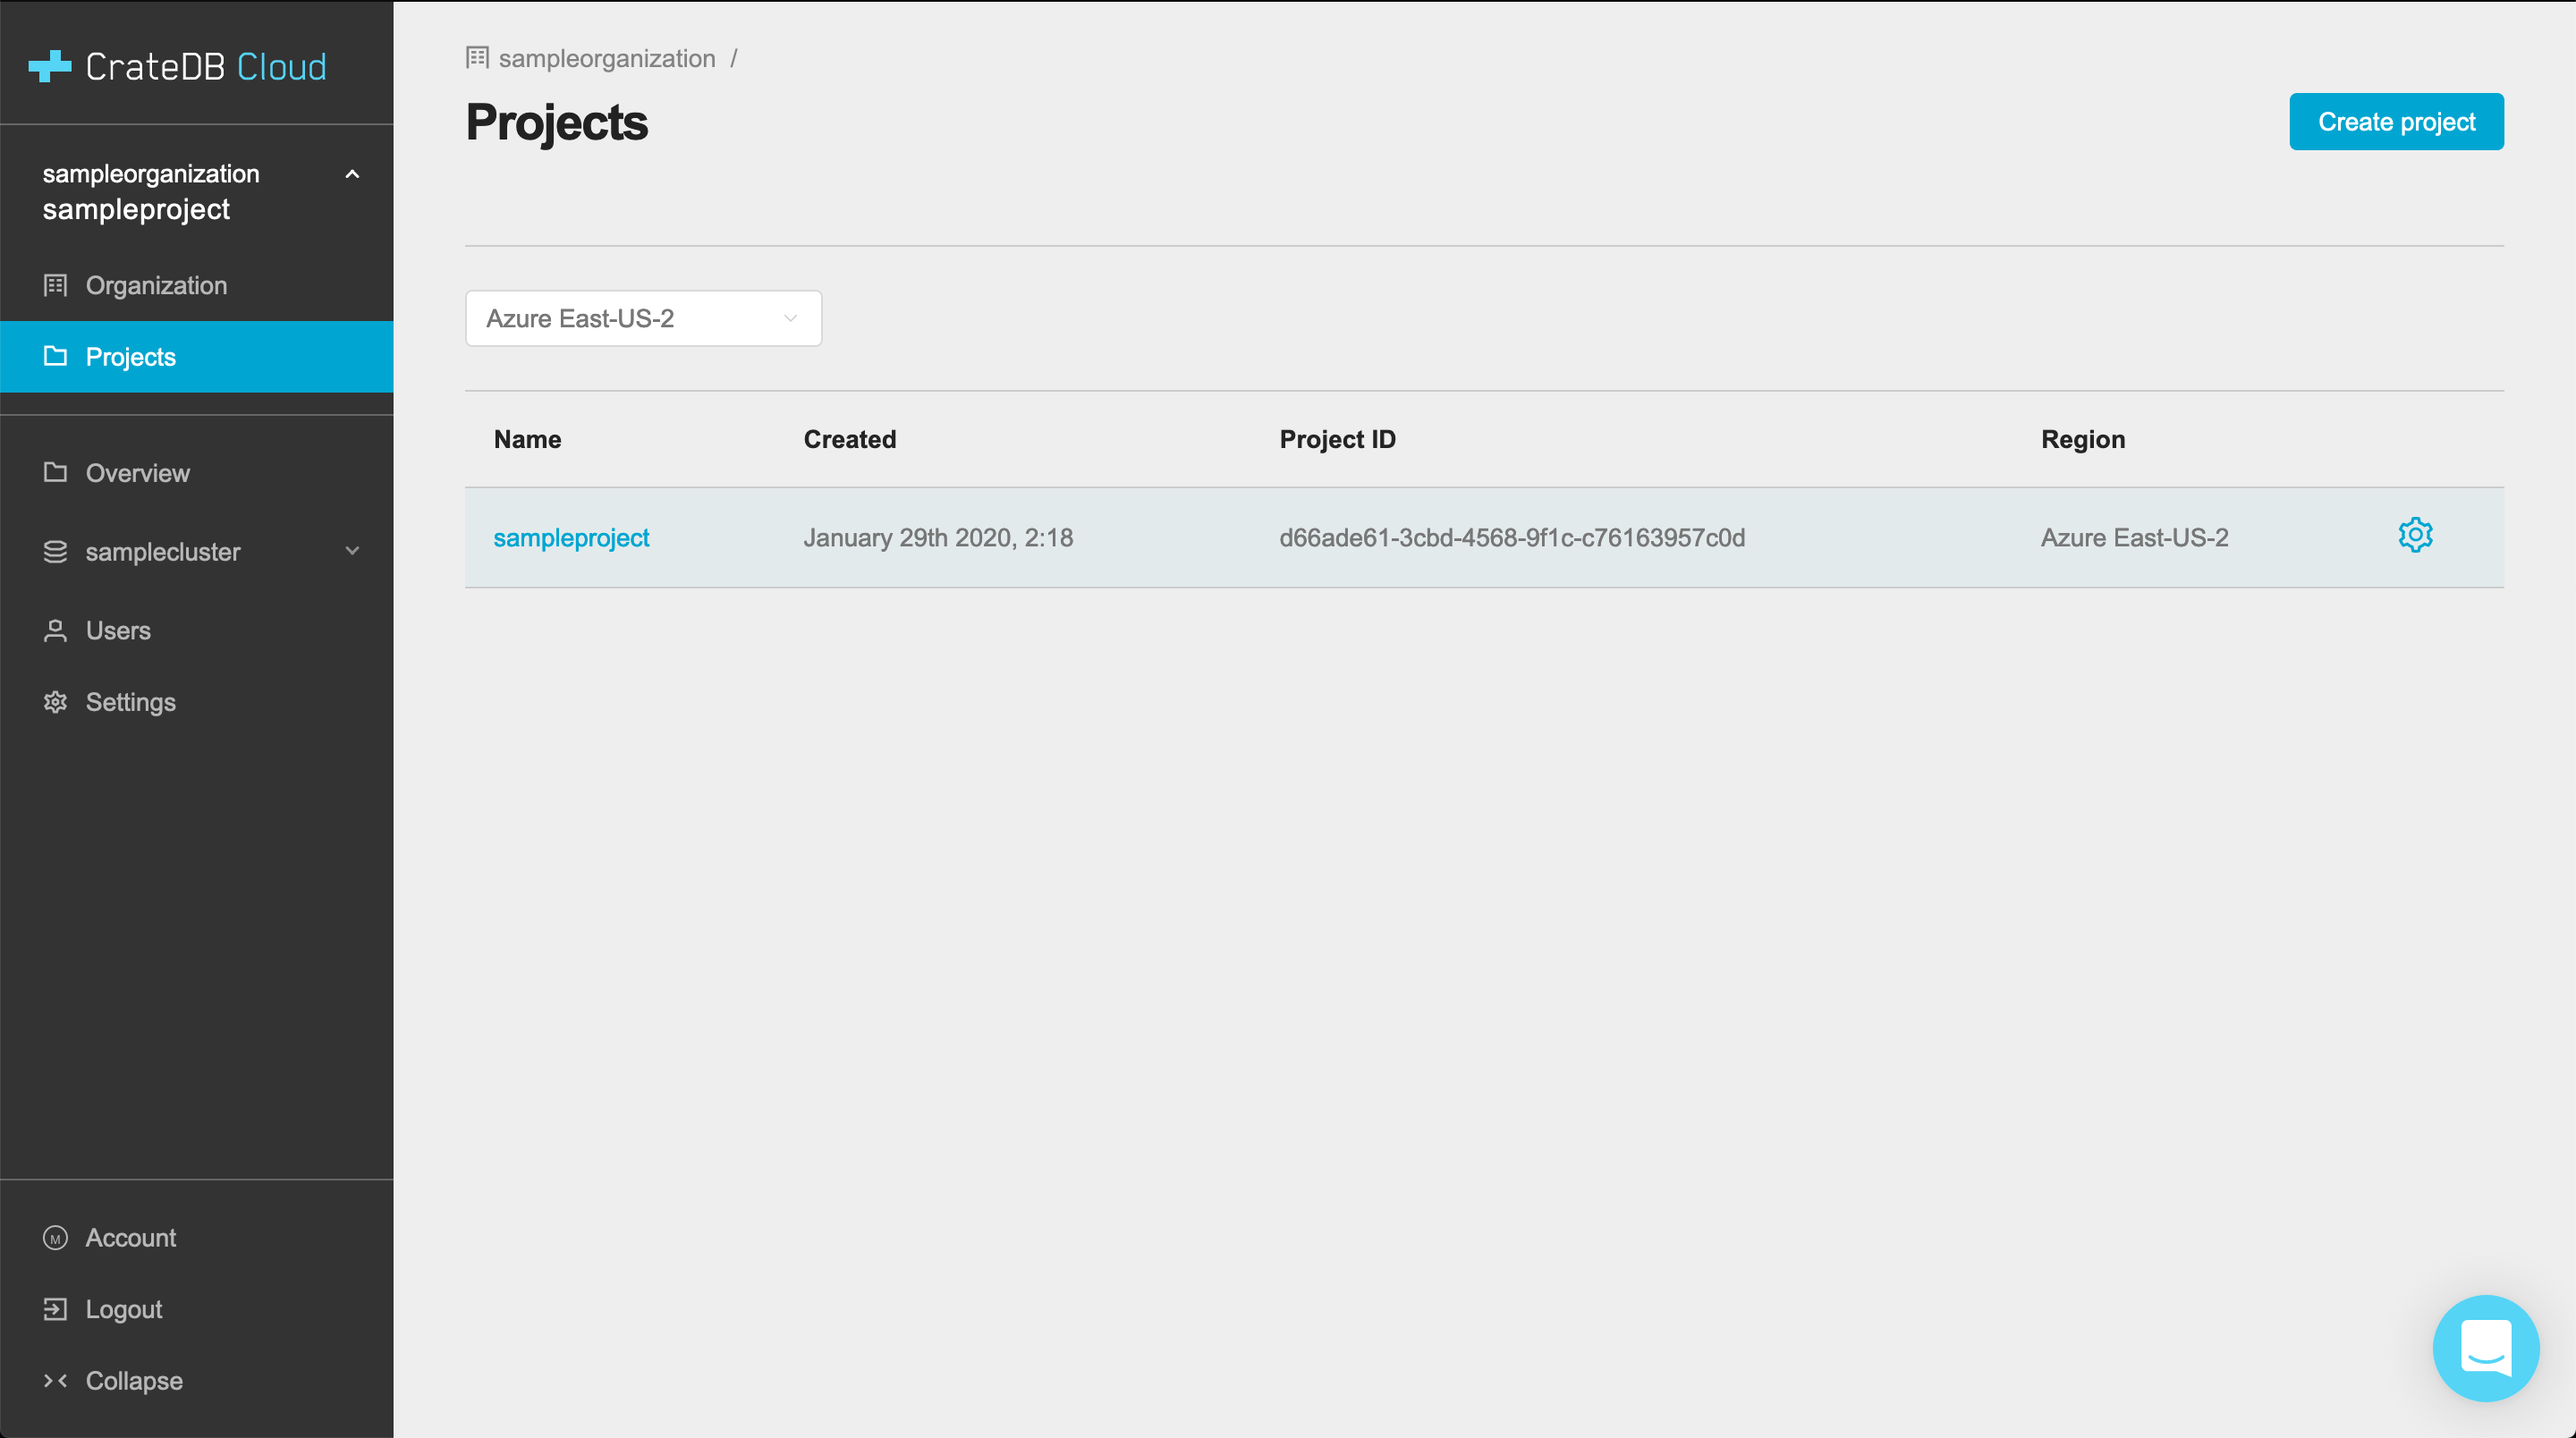
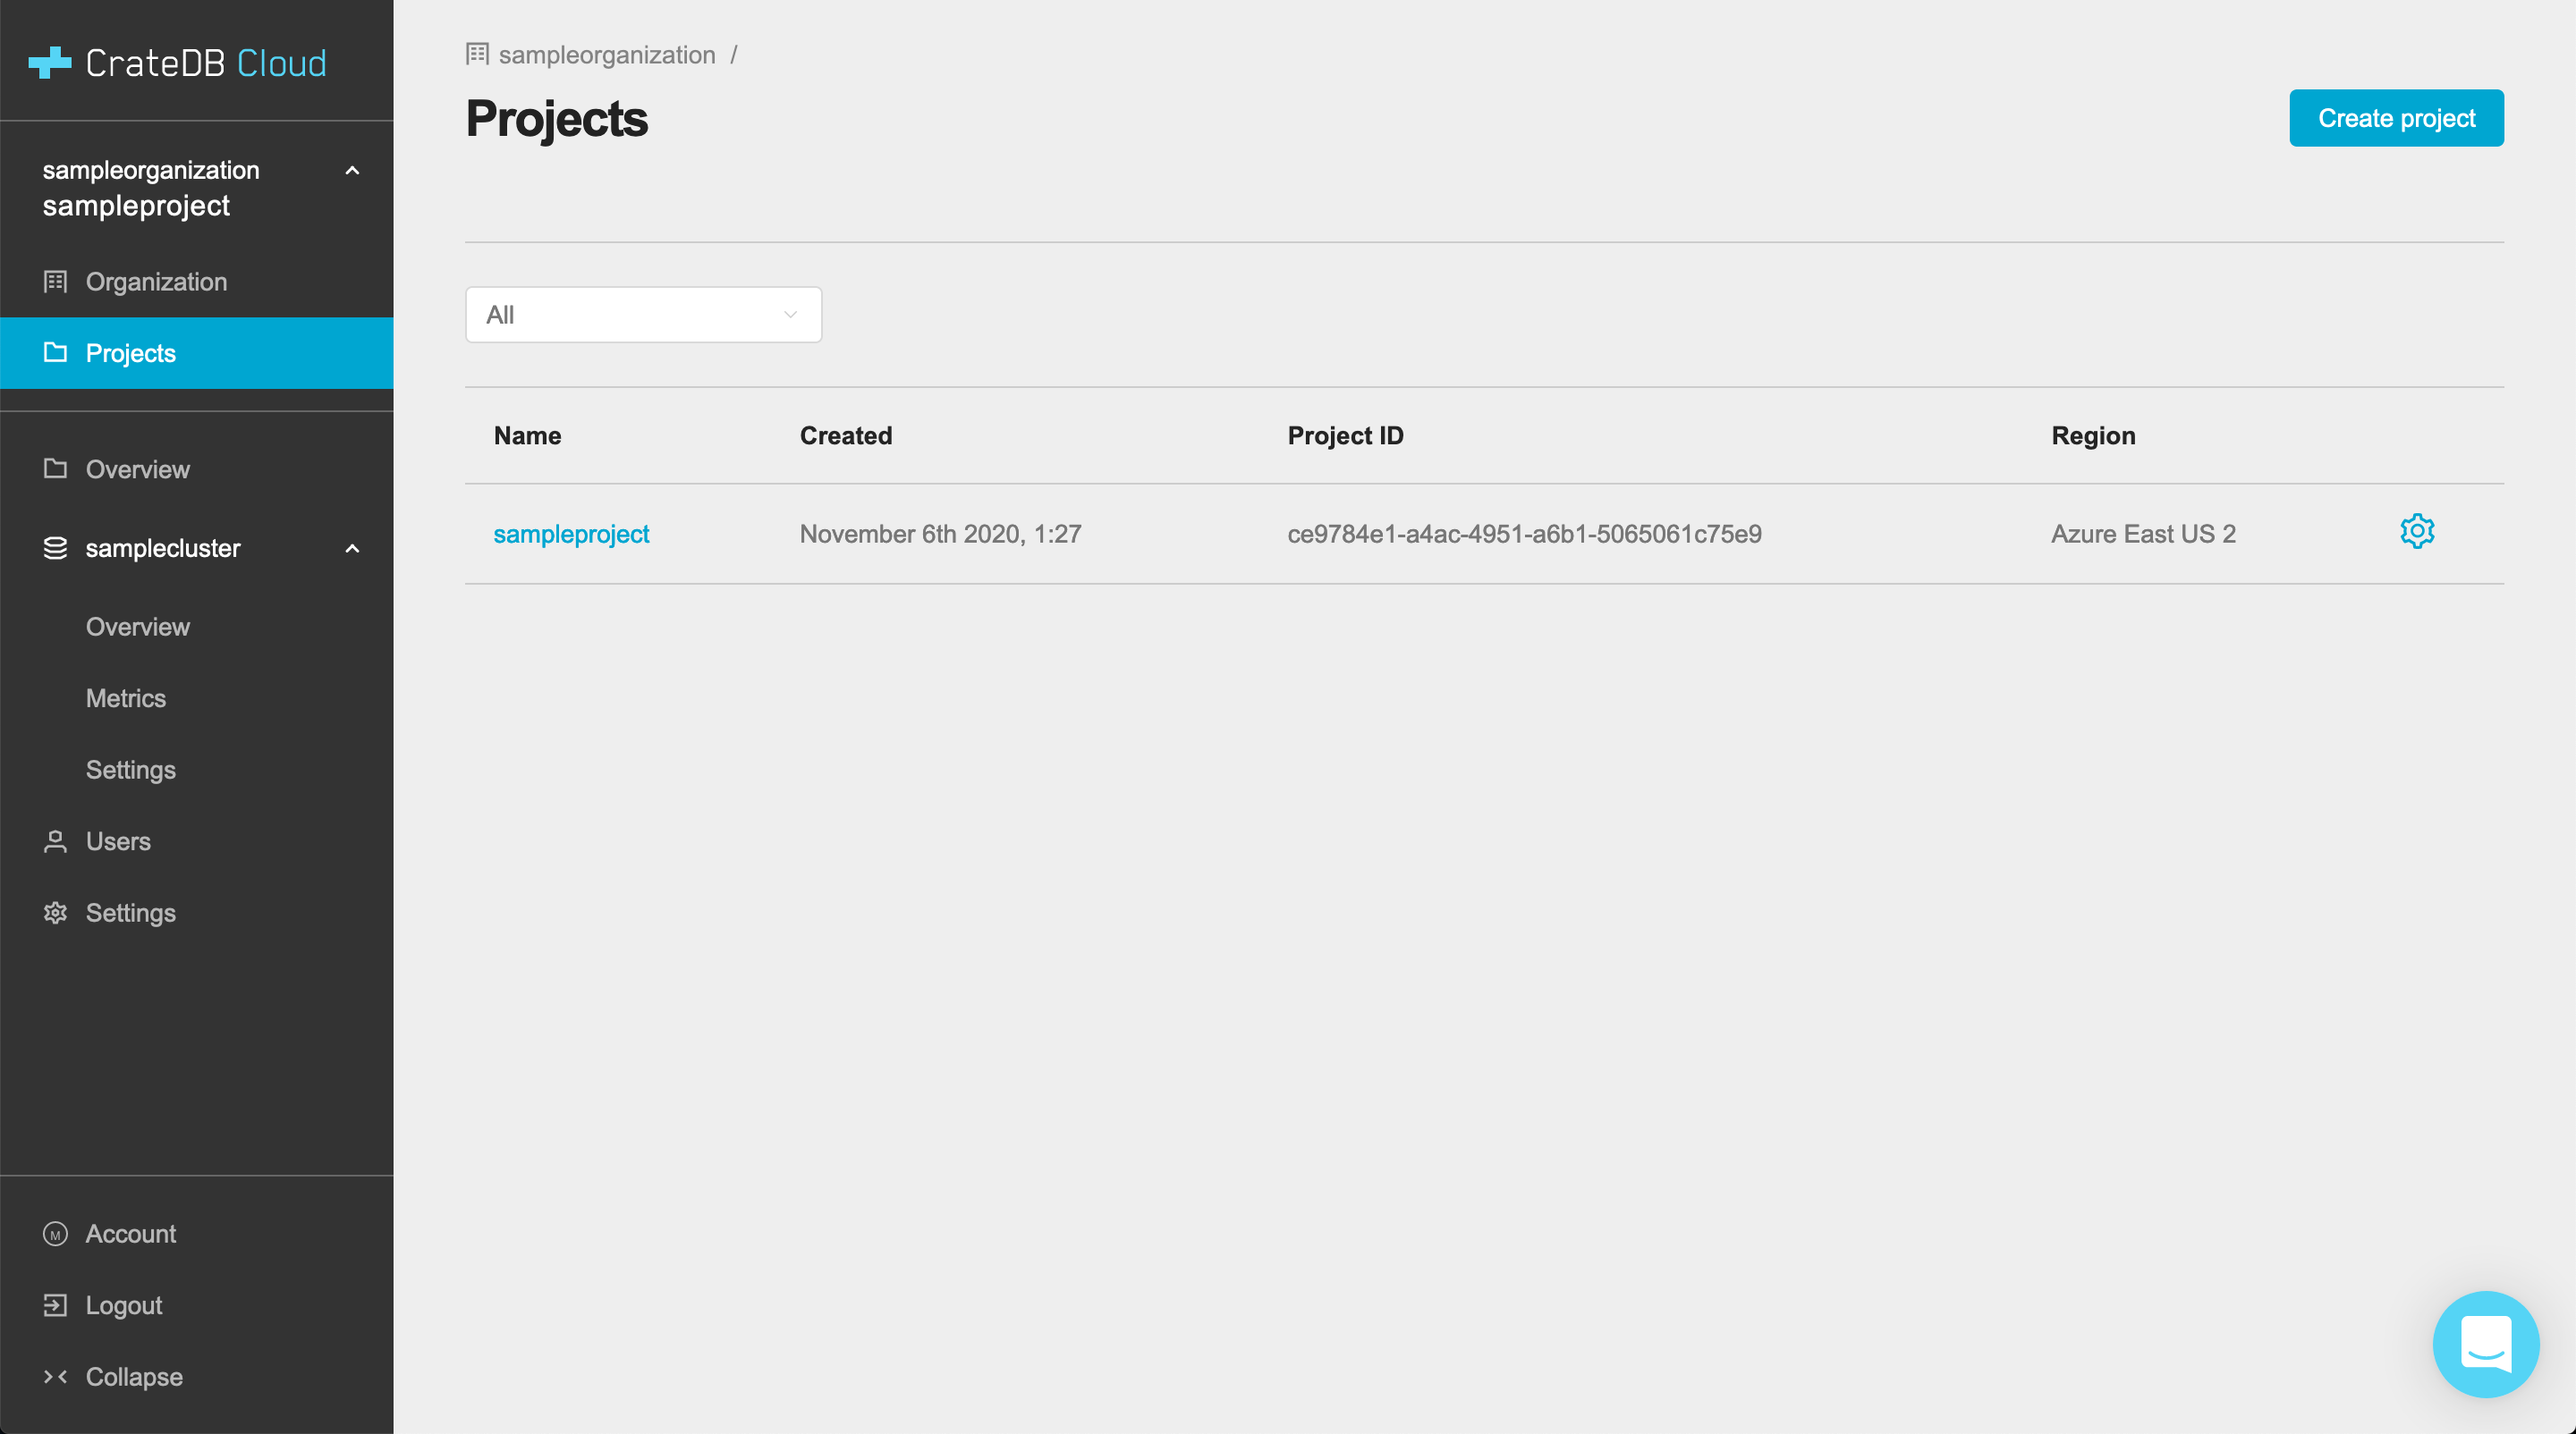
Refresh: Update to Cloud Howtos

diff --git a/docs/delete-cluster.rst b/docs/delete-cluster.rst
@@ -58,7 +58,8 @@ should be just one.)
 .. image:: _assets/img/projects.png
 
 Select the relevant project by clicking on it. Make sure the correct region is
-displayed in the regions dropdown menu to see the correct project.
+displayed in the regions dropdown menu to see the correct project, or select
+'All' in the dropdown menu.
 
 Next, we need to display the cluster in question. To do this, we need to access
 the Cluster Settings page in the left-hand sidebar, below the divider line. The
@@ -87,16 +88,18 @@ using the Azure Marketplace, you will already be familiar with it.
 
 To delete a cluster via the Azure Portal, first we must head to the Azure
 Portal |homepage|. Make sure you are logged in with the correct account
-while on this page. If all is well, you should be able to see an overview of
-different possible Azure services at the top of the page. If you have recently
-used a SaaS resource, you should find in this overview the item "Software as a
-Service (SaaS)". If this item is not present in the list, go to the search bar
-at the top (which says *search resources, services, and docs*) and enter "SaaS"
-there. The SaaS item should then appear in the list of results.
+while on this page.
+
+If all is well, you should be able to see a section titled *Azure Services* on
+the landing page. If you have recently used a SaaS resource, you should find in
+this overview the item "Software as a Service (SaaS)". If this item is not
+present in the list, go to the search bar at the top (which says *search
+resources, services, and docs*) and enter "SaaS" there. The SaaS item should
+then appear in the list of results.
 
 .. image:: _assets/img/azureservices.png
 
-Click on this. If you have subscribed to the CrateDB Cloud offer and have
+Click on this icon. If you have subscribed to the CrateDB Cloud offer and have
 deployed a cluster previously, the cluster name should now appear in the list
 of SaaS items.
 
@@ -130,15 +133,24 @@ To delete a cluster created in this way, you must unsubscribe from the AWS
 Marketplace offer. To do so, go to the AWS Marketplace landing page. Make sure
 you are logged in with the account with which you have subscribed to the offer.
 
-On the landing page, click the big orange button *Manage subscriptions*. This
-will take you to an overview of your AWS Marketplace subscriptions. You should
-see CrateDB Cloud there. Each subscription item has a button labelled *Manage*.
-Click this button for CrateDB Cloud.
+On the landing page, find your account name in the top right corner, and in the
+dropdown menu, select *Your Marketplace Software*.
+
+.. image:: _assets/img/aws-marketplace.png
+
+This will take you to an overview of your AWS Marketplace subscriptions. You
+should see CrateDB Cloud there. Each subscription item has a button labelled
+*Manage*. Click this button for CrateDB Cloud.
+
+.. image:: _assets/img/aws-subscriptions.png
 
 You will now see a page with the CrateDB Cloud "pay as you go" offer on it. At
-the top right corner there is a button labelled *Actions*. This generates a
-drop-down menu with various options for interacting with the offer. In this
-menu, click the option *Cancel subscription*.
+the top right corner there is a button labelled *Actions*.
+
+.. image:: _assets/img/aws-cratedbcloud.png
+
+This generates a drop-down menu with various options for interacting with the
+offer. In this menu, click the option *Cancel subscription*.
 
 A warning will appear, stating that cancelling the subscription will not
 terminate your running services. Do not worry: upon receiving a notice of

diff --git a/docs/create-org.rst b/docs/create-org.rst
@@ -28,14 +28,11 @@ the page will display an empty box logo and the message *No organization yet*.
 
 .. image:: _assets/img/create-org.png
 
-Underneath this logo, click the button *Create organization*. A tab will appear
-prompting you to name the organization. Once you have decided on a name, click
-*Create* in the bottom right corner to proceed.
-
-.. image:: _assets/img/create-org-dropdown.png
+In order to create an organization, fill out the organization name in the space
+provided, and click *Create organization*.
 
 When the organization has been created, you will be returned to the
-Organization page, where the organization will now be listed.
+Organization page, where it will now be listed.
 
 
 .. _create-org-overview:
@@ -45,13 +42,18 @@ The Organization page
 
 To access the Organization page, click *Organization* at the top left of the
 left-hand menu in the Console. Here you will see an overview of your
-organization with its name, unique ID, and the email information.
+organization, further subscription options, and any deployed clusters.
 
 .. image:: _assets/img/organization-overview.png
 
-There are also three tabs. The current tab is by default *Settings*. In the
-*Users* tab you can add users to the organization at organization level. For
-more on adding users, see our `guide to adding users to organizations and
+The current tab is by default *Subscriptions*. There are also three further
+tabs.
+
+In the *Settings* tab you see the organization name, unique ID, and
+notification settings.
+
+In the *Users* tab you can add users to the organization at organization level.
+For more on adding users, see our `guide to adding users to organizations and
 projects`_. To understand roles and role definitions, see our `guide to user
 roles in CrateDB Cloud`_.
 

diff --git a/docs/add-users.rst b/docs/add-users.rst
@@ -30,9 +30,9 @@ Add users to an organization
 
 New users can be added to an organization by going to the Organization page in
 the Console if you are logged in as organization admin. (For more information
-on user roles and associated privileges, see our documentation on
-`user roles`_.) At the top, you will see three tabs labelled *Settings*,
-*Users*, and *Audit Log*.
+on user roles and associated privileges, see our documentation on `user
+roles`_.) At the top, you will see four tabs labelled *Subscriptions*,
+*Settings*, *Users*, and *Audit Log*.
 
 .. image:: _assets/img/organization-overview.png
 

diff --git a/docs/create-project.rst b/docs/create-project.rst
@@ -19,7 +19,7 @@ The Organization page
 
 When you first access the CrateDB Cloud Console, you will arrive at the
 Organization overview page. This page displays your organization with the name
-you selected, the notification info, and the organization ID.
+you selected, further subscription options, and any deployed clusters.
 
 .. image:: _assets/img/organization-overview.png
 
